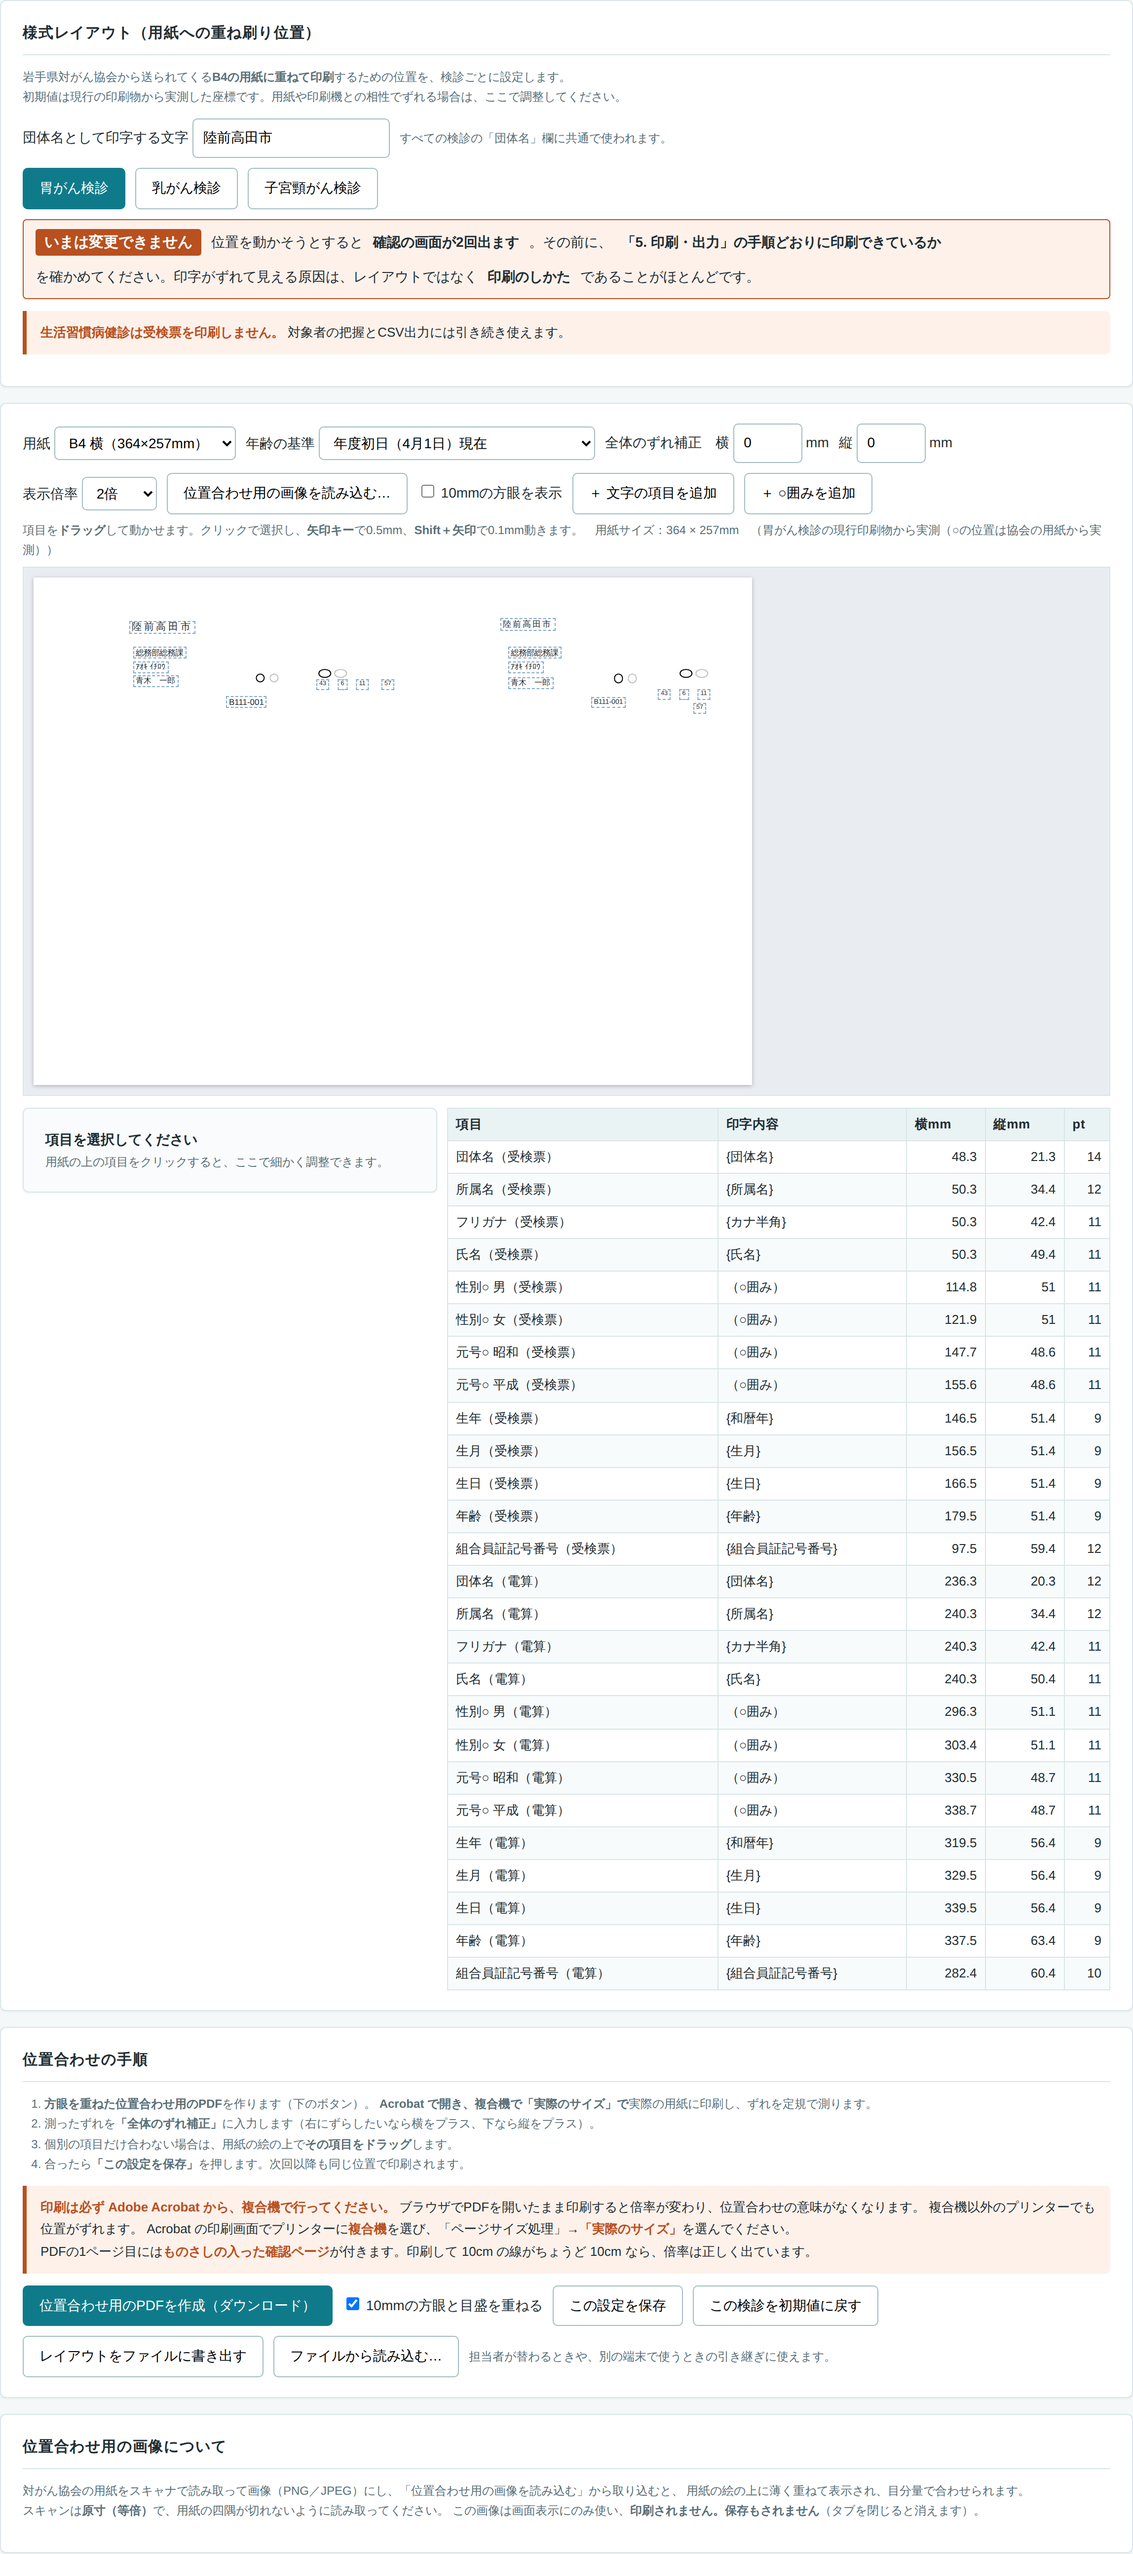
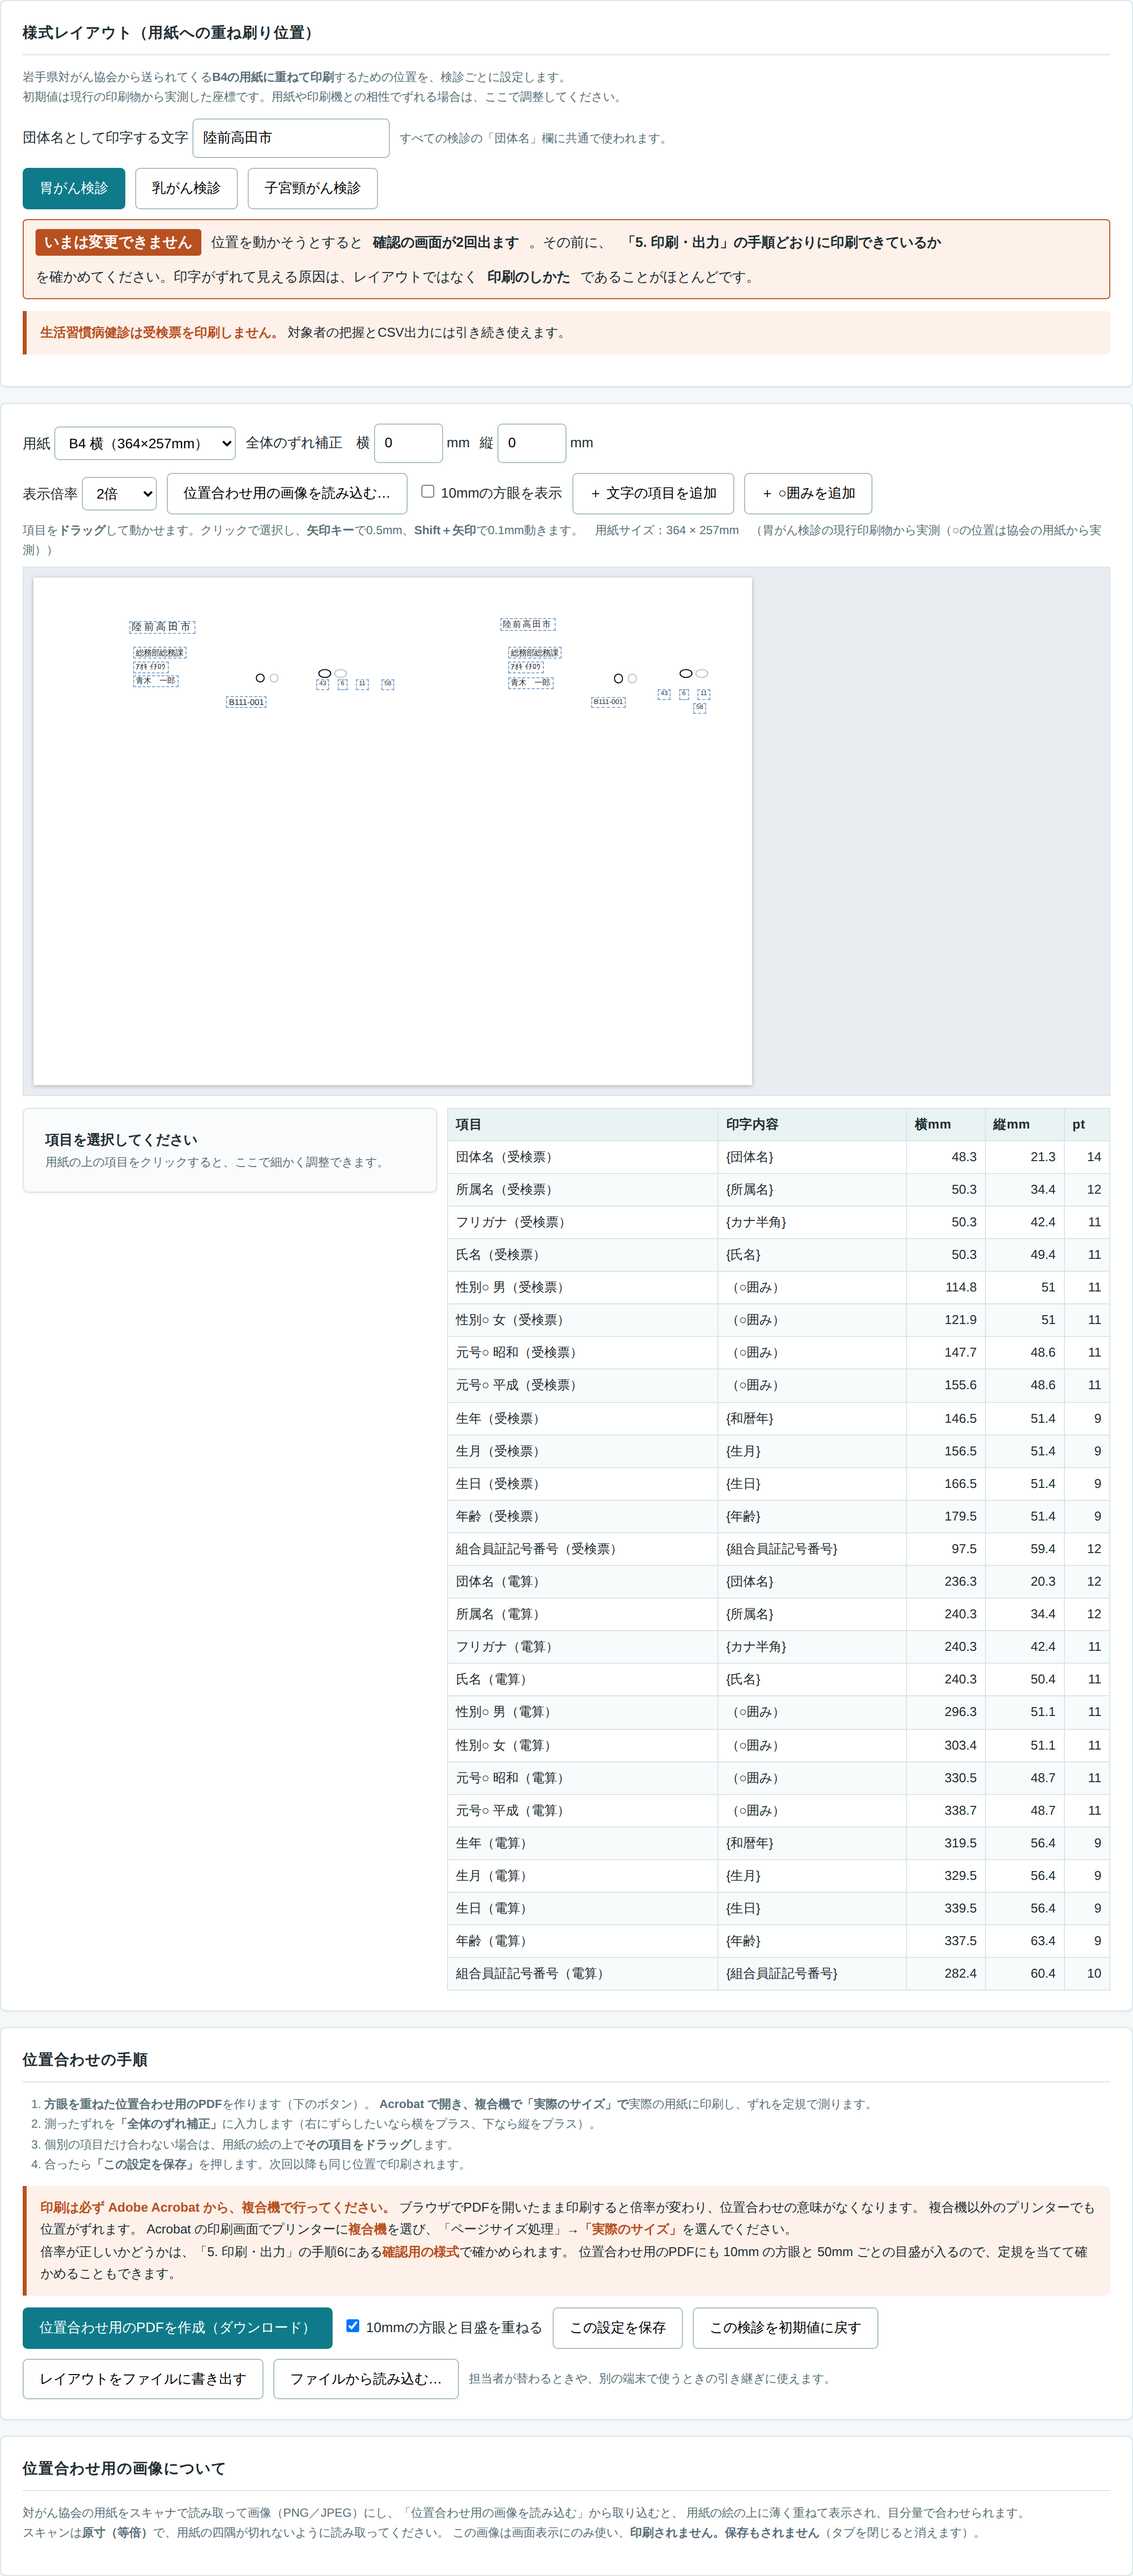
年齢を年度末（翌年3月31日）現在に統一し、法律どおりの数え方にした
これまで、受検票に印字する年齢は年度初日（4月1日）現在、画面・CSVの年齢は
「年齢の基準日」（年度末）現在で数えていたため、ほぼ全員で1歳ずれていた。
担当の指示により、すべて年度末現在にそろえた。

- 受検票・画面・CSVの年齢を、「１. 名簿の読込」の「年齢の基準日」ひとつで
  数えるようにした（既定は翌年3月31日）。様式レイアウトにあった検診ごとの
  「年齢の基準」は、ずれの原因になるため削除した。
- 満年齢の数え方を、誕生日の前日が終わる時点で年を取る考え方に改めた
  （国の法律「年齢計算ニ関スル法律」と民法第143条）。3月31日現在の年齢には
  4月1日生まれの人も年を取った後の年齢で入る。翌年4月1日に単純に数えた年齢と同じ。
- 名簿の読込の説明文を、年齢がどこに使われるかが分かる文に直した
  （以前は「対象者を判定します」とあったが、年齢は対象者の判定には使っていない）。
- README と様式レイアウトの調整手順の記述を改め、使われていない画面写真
  （年齢の基準が写った c_off.png）を削除し、様式レイアウトの画面写真を撮り直した。

サンプル24人・3検診延べ38件で、画面・受検票・CSVの年齢が一致することを確かめた。

Claude-Session: https://claude.ai/code/session_01LqhWD3ZtEM5S1eRzxMM65U

diff --git a/kenshin.html b/kenshin.html
@@ -418,7 +418,8 @@ table.grid tbody tr:nth-child(even){background:#f8fbfb}
       <label>年齢の基準日
         <input type="date" id="baseDate">
       </label>
-      <span class="hint">基準日時点の満年齢で対象者を判定します（通常は年度末＝翌年3月31日）。</span>
+      <span class="hint">画面・受検票・CSVの年齢は、すべてこの日の満年齢です（既定は年度末＝翌年3月31日）。
+        誕生日の前日に年を取る数え方なので、4月1日生まれの人も年度末の年齢に含まれます。</span>
     </div>
 
     <div class="info" style="margin-top:14px">
@@ -1596,11 +1597,17 @@ function fmtDateWithDow(iso){
   return (d.getMonth()+1) + "月" + d.getDate() + "日（" + dow + "）";
 }
 
+/* 満年齢
+   年齢は誕生日の前日が終わる時点で1つ加わる、という数え方にしています
+   （国の法律「年齢計算ニ関スル法律」と民法第143条による考え方）。
+   このため「3月31日現在」の年齢は、4月1日生まれの人も年を取った後の年齢になり、
+   翌日（4月1日）時点で単純に数えた年齢と同じになります。 */
 function ageAt(birth, base){
   if(!birth || !base) return null;
-  var a = base.getFullYear() - birth.getFullYear();
-  var m = base.getMonth() - birth.getMonth();
-  if(m < 0 || (m === 0 && base.getDate() < birth.getDate())) a--;
+  var d = new Date(base.getFullYear(), base.getMonth(), base.getDate() + 1);
+  var a = d.getFullYear() - birth.getFullYear();
+  var m = d.getMonth() - birth.getMonth();
+  if(m < 0 || (m === 0 && d.getDate() < birth.getDate())) a--;
   return a;
 }
 
@@ -2977,31 +2984,6 @@ function warekiYear(y){
   return w.gengo + w.year;
 }
 
-/* 年齢の基準日 */
-function ageFor(emp, basis, assign){
-  if(!emp.birth) return null;
-  var fy = state.fiscalYear;
-  var d;
-  if(basis === "exam" && assign && assign.date){
-    var p = assign.date.split("-");
-    d = new Date(+p[0], +p[1] - 1, +p[2]);
-  }else if(basis === "fyEnd"){
-    d = new Date(fy + 1, 2, 31);
-  }else if(basis === "base"){
-    d = state.baseDate;
-  }else{
-    d = new Date(fy, 3, 1);                      // 年度初日（4月1日）現在
-  }
-  return ageAt(emp.birth, d);
-}
-
-var AGE_BASIS = [
-  ["fyStart", "年度初日（4月1日）現在"],
-  ["fyEnd",   "年度末（3月31日）現在"],
-  ["exam",    "受診日現在"],
-  ["base",    "「名簿の読込」で指定した基準日現在"]
-];
-
 /* --- 初期レイアウト（現行の印刷物から実測） --- */
 /* ○囲み。x,y は円の中心。フォントに依存しないよう図形として描きます。 */
 function E(label, cx, cy, w, h, showIf){
@@ -3021,7 +3003,7 @@ function defaultLayouts(){
 
     /* ---- 胃がん検診（受検票＋電算処理用紙） ---- */
     i: {
-      paper:"b4l", offsetX:0, offsetY:0, ageBasis:"fyStart",
+      paper:"b4l", offsetX:0, offsetY:0,
       font:'"MS ゴシック","MS Gothic","Yu Gothic",sans-serif',
       source:"胃がん検診の現行印刷物から実測（○の位置は協会の用紙から実測）",
       fields:[
@@ -3057,7 +3039,7 @@ function defaultLayouts(){
 
     /* ---- 乳がん検診 ---- */
     nyu: {
-      paper:"b4l", offsetX:0, offsetY:0, ageBasis:"fyStart",
+      paper:"b4l", offsetX:0, offsetY:0,
       font:'"MS ゴシック","MS Gothic","Yu Gothic",sans-serif',
       source:"乳がん検診の現行印刷物から実測",
       fields:[
@@ -3086,7 +3068,7 @@ function defaultLayouts(){
 
     /* ---- 子宮頸がん検診 ---- */
     shikyu: {
-      paper:"b4l", offsetX:0, offsetY:0, ageBasis:"fyStart",
+      paper:"b4l", offsetX:0, offsetY:0,
       font:'"MS ゴシック","MS Gothic","Yu Gothic",sans-serif',
       source:"子宮頸がん検診の現行印刷物から実測",
       fields:[
@@ -3119,7 +3101,7 @@ function defaultLayouts(){
 function personCtx(t, kid){
   var e = t.emp, a = t.assign, L = state.layouts[kid] || {};
   var w = toWareki(e.birth);
-  var age = ageFor(e, L.ageBasis, a);
+  var age = ageAt(e.birth, state.baseDate);          // 画面・CSVと同じ「年齢の基準日」で数えます
   var ed = assignDateLabel(a), em = "", edd = "";
   if(a && a.date){
     var p = a.date.split("-");
@@ -3331,9 +3313,6 @@ function renderLayoutEditor(){
         return '<option value="' + k + '"' + (L.paper === k ? " selected" : "") + ">" + esc(PAPER[k].name)
              + "（" + PAPER[k].w + "×" + PAPER[k].h + "mm）</option>"; }).join("")
     + "</select></label>"
-    + '<label>年齢の基準 <select id="lyAge">'
-    + AGE_BASIS.map(function(a){ return '<option value="' + a[0] + '"' + (L.ageBasis === a[0] ? " selected" : "") + ">" + esc(a[1]) + "</option>"; }).join("")
-    + "</select></label>"
     + '<label>全体のずれ補正　横 <input type="number" step="0.5" id="lyOffX" value="' + (L.offsetX || 0) + '" style="width:70px"> mm</label>'
     + '<label>縦 <input type="number" step="0.5" id="lyOffY" value="' + (L.offsetY || 0) + '" style="width:70px"> mm</label>'
     + "</div>"
@@ -3437,7 +3416,7 @@ function sampleCtx(){
   if(t) return personCtx(t, ly.kid);
   var birth = new Date(1984, 0, 16);
   var w = toWareki(birth);
-  var age = ageAt(birth, new Date(state.fiscalYear, 3, 1));
+  var age = ageAt(birth, state.baseDate);
   return {
     "団体名": state.orgName, "所属名": "総務部総務課", "所属コード":"1100", "係名":"職員係", "職員番号":"1007",
     "氏名": "見本　太郎", "カナ":"ミホン タロウ", "カナ半角":"ﾐﾎﾝ ﾀﾛｳ",
@@ -3515,7 +3494,6 @@ function renderFieldList(){
 
 function bindEditor(){
   $("lyPaper").addEventListener("change", function(){ state.layouts[ly.kid].paper = this.value; renderLayoutEditor(); });
-  $("lyAge").addEventListener("change", function(){ state.layouts[ly.kid].ageBasis = this.value; drawCanvas(); });
   $("lyScale").addEventListener("change", function(){ ly.scale = parseFloat(this.value); drawCanvas(); });
   $("lyOffX").addEventListener("input", function(){ state.layouts[ly.kid].offsetX = parseFloat(this.value) || 0; drawCanvas(); });
   $("lyOffY").addEventListener("input", function(){ state.layouts[ly.kid].offsetY = parseFloat(this.value) || 0; drawCanvas(); });

diff --git a/README.md b/README.md
@@ -182,7 +182,10 @@
 生年月日の元号の○・年・月・日／年齢／組合員証記号番号
 
 - **性別と元号の○は文字ではなく図形**として描いています。フォントによって潰れたりずれたりしません。
-- 年齢の基準日は検診ごとに選べます（既定は**年度初日（4 月 1 日）現在**）。
+- 年齢は**年度末（翌年 3 月 31 日）現在の満年齢**です。画面・受検票・CSV のすべてで同じ日を使います
+  （「１. 名簿の読込」の「年齢の基準日」で変えられます）。
+  誕生日の前日に年を取る数え方（国の法律「年齢計算ニ関スル法律」・民法第 143 条の考え方）なので、
+  4 月 1 日生まれの人も年度末の年齢に含まれます。
 - フリガナは名簿の表記のまま（半角カナ）印字します。
 
 ### PDF でダウンロードします

diff --git a/docs/様式レイアウトの調整手順.md b/docs/様式レイアウトの調整手順.md
@@ -122,6 +122,6 @@
 |---|---|
 | 各項目の位置・文字の大きさ | 現行の印刷物（Access からの出力）を PDF として読み取り、mm 単位で実測 |
 | 性別・元号の○の位置と大きさ | 協会の用紙（見本）をスキャンした画像から、「男・女」「昭和・平成」の実位置を測定 |
-| 年齢の基準日 | 現行の印刷物と一致する「年度初日（4月1日）現在」を初期値に設定 |
+| 年齢の基準日 | 年度末（翌年3月31日）現在。画面・受検票・CSVで共通。「１. 名簿の読込」で変更（当初は現行の印刷物に合わせ年度初日にしていたが、担当の指示で年度末に統一） |
 
 ○は文字ではなく図形として描いているため、端末のフォントによって形が変わることはありません。
